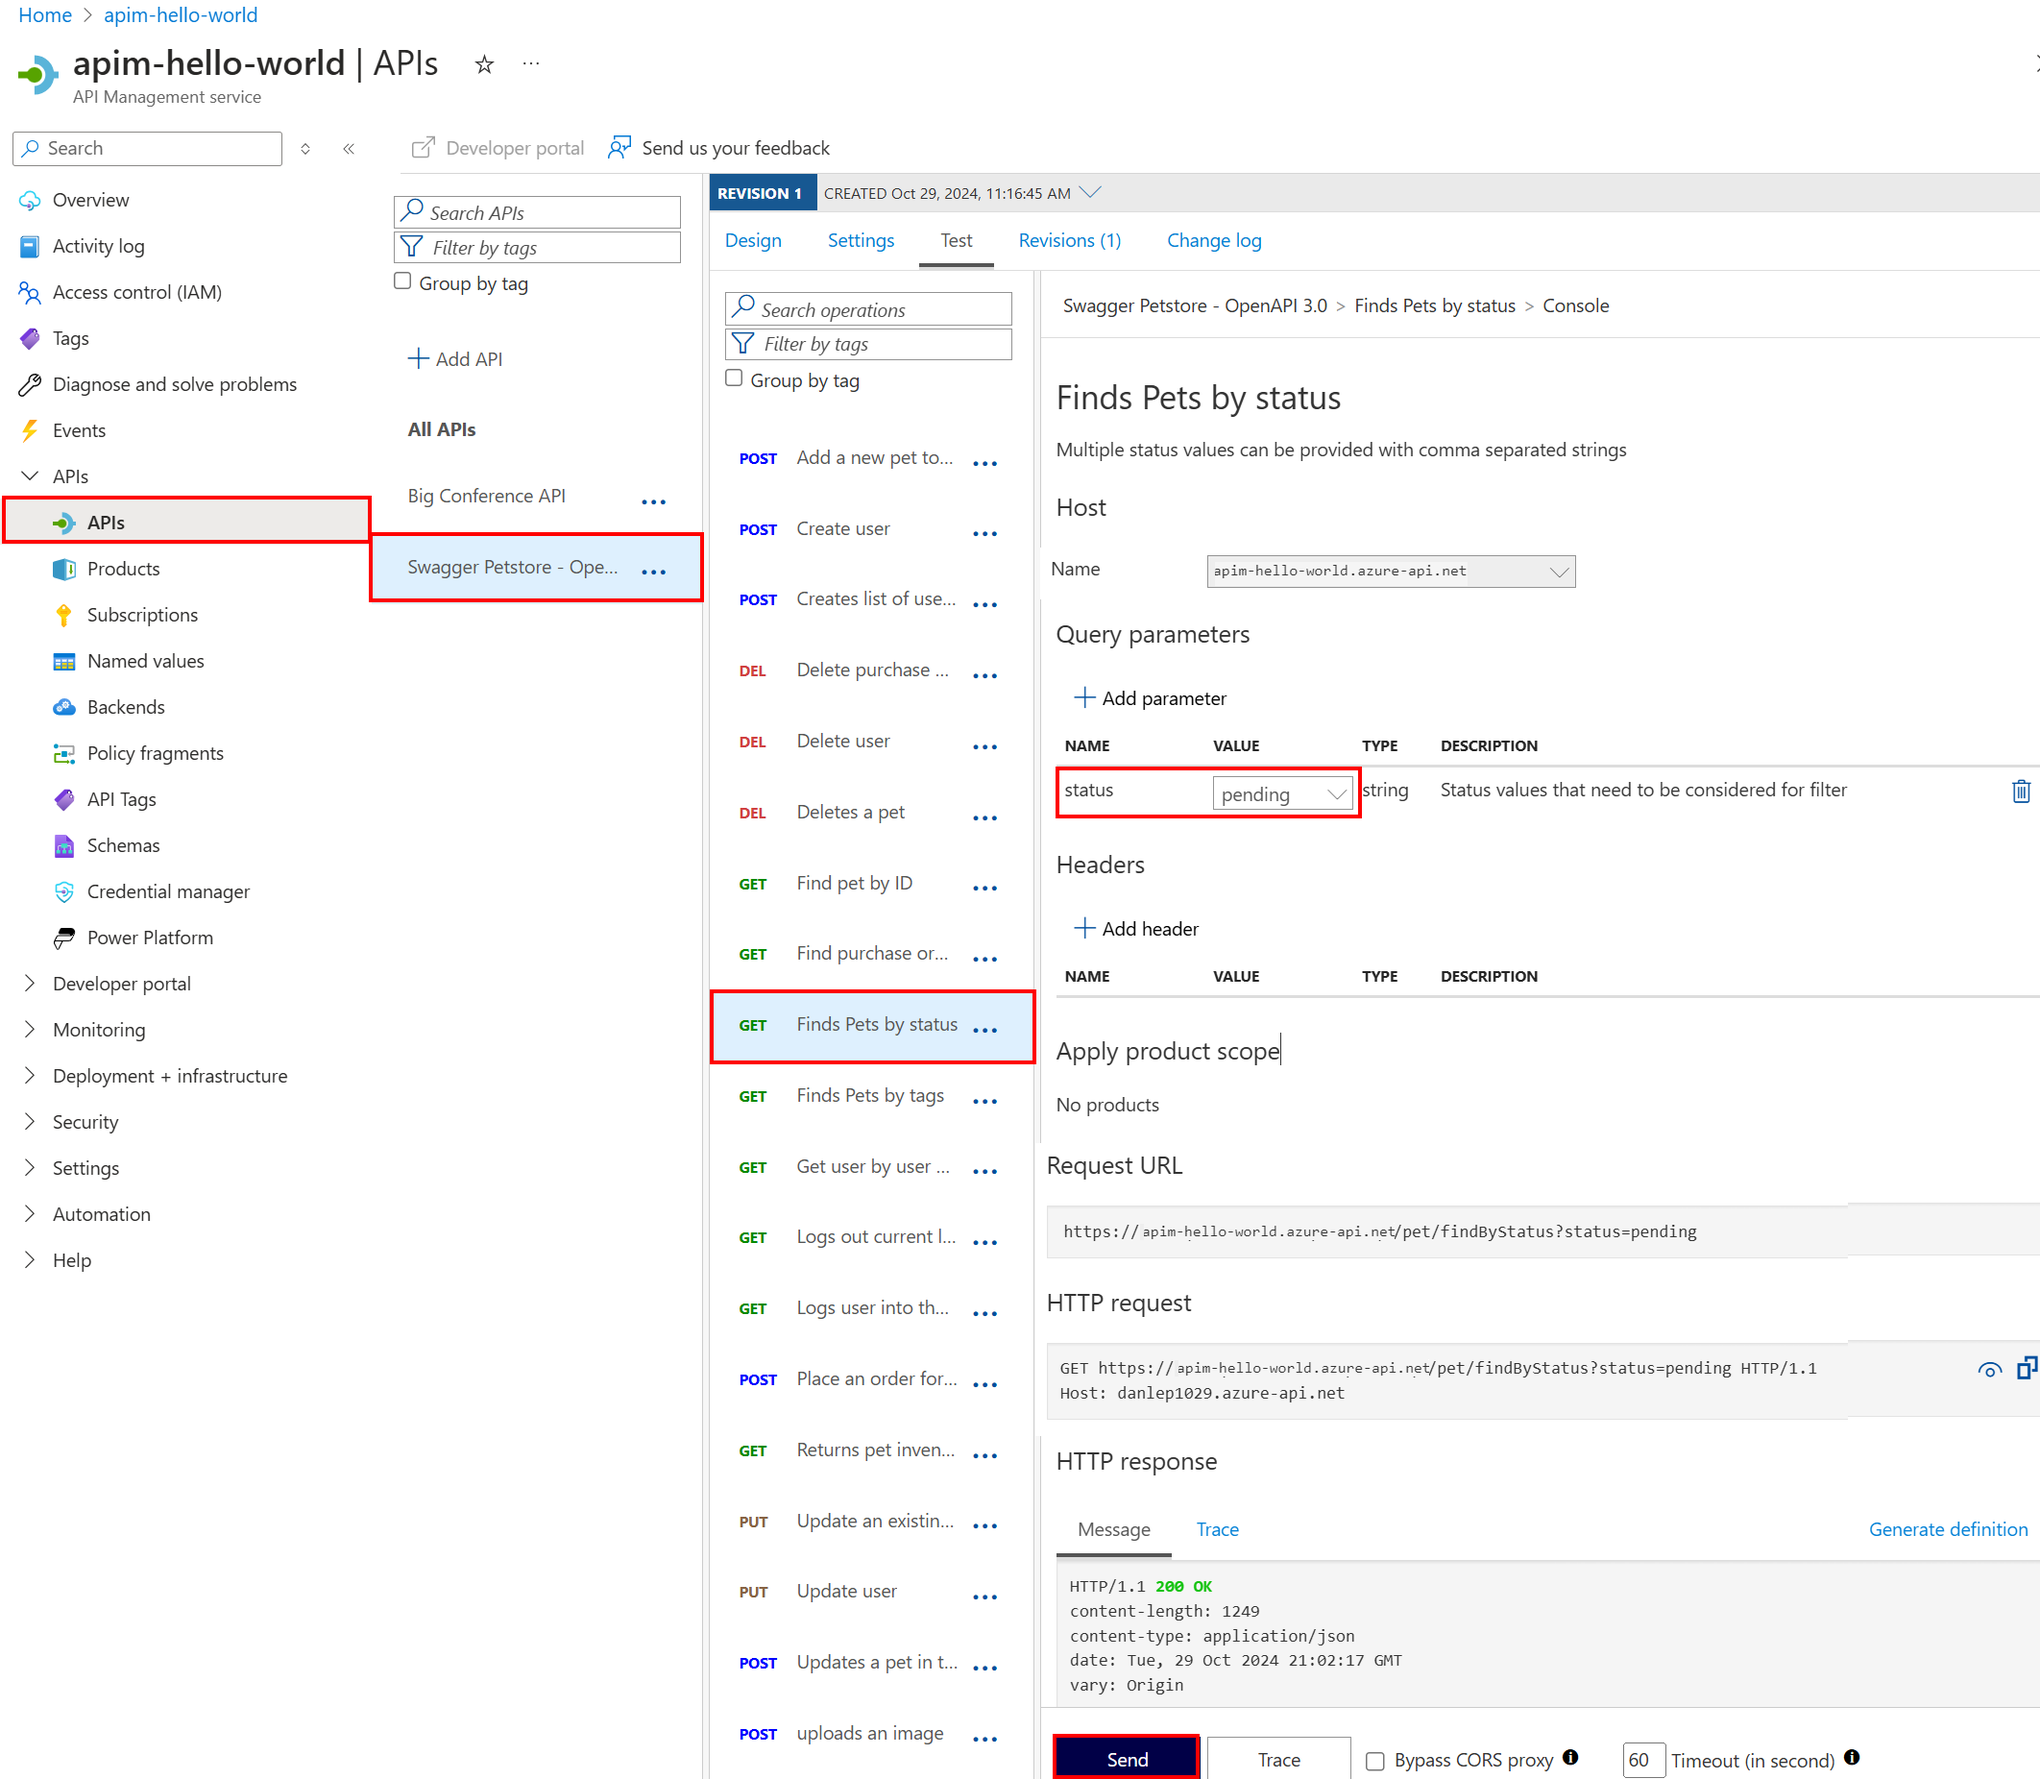
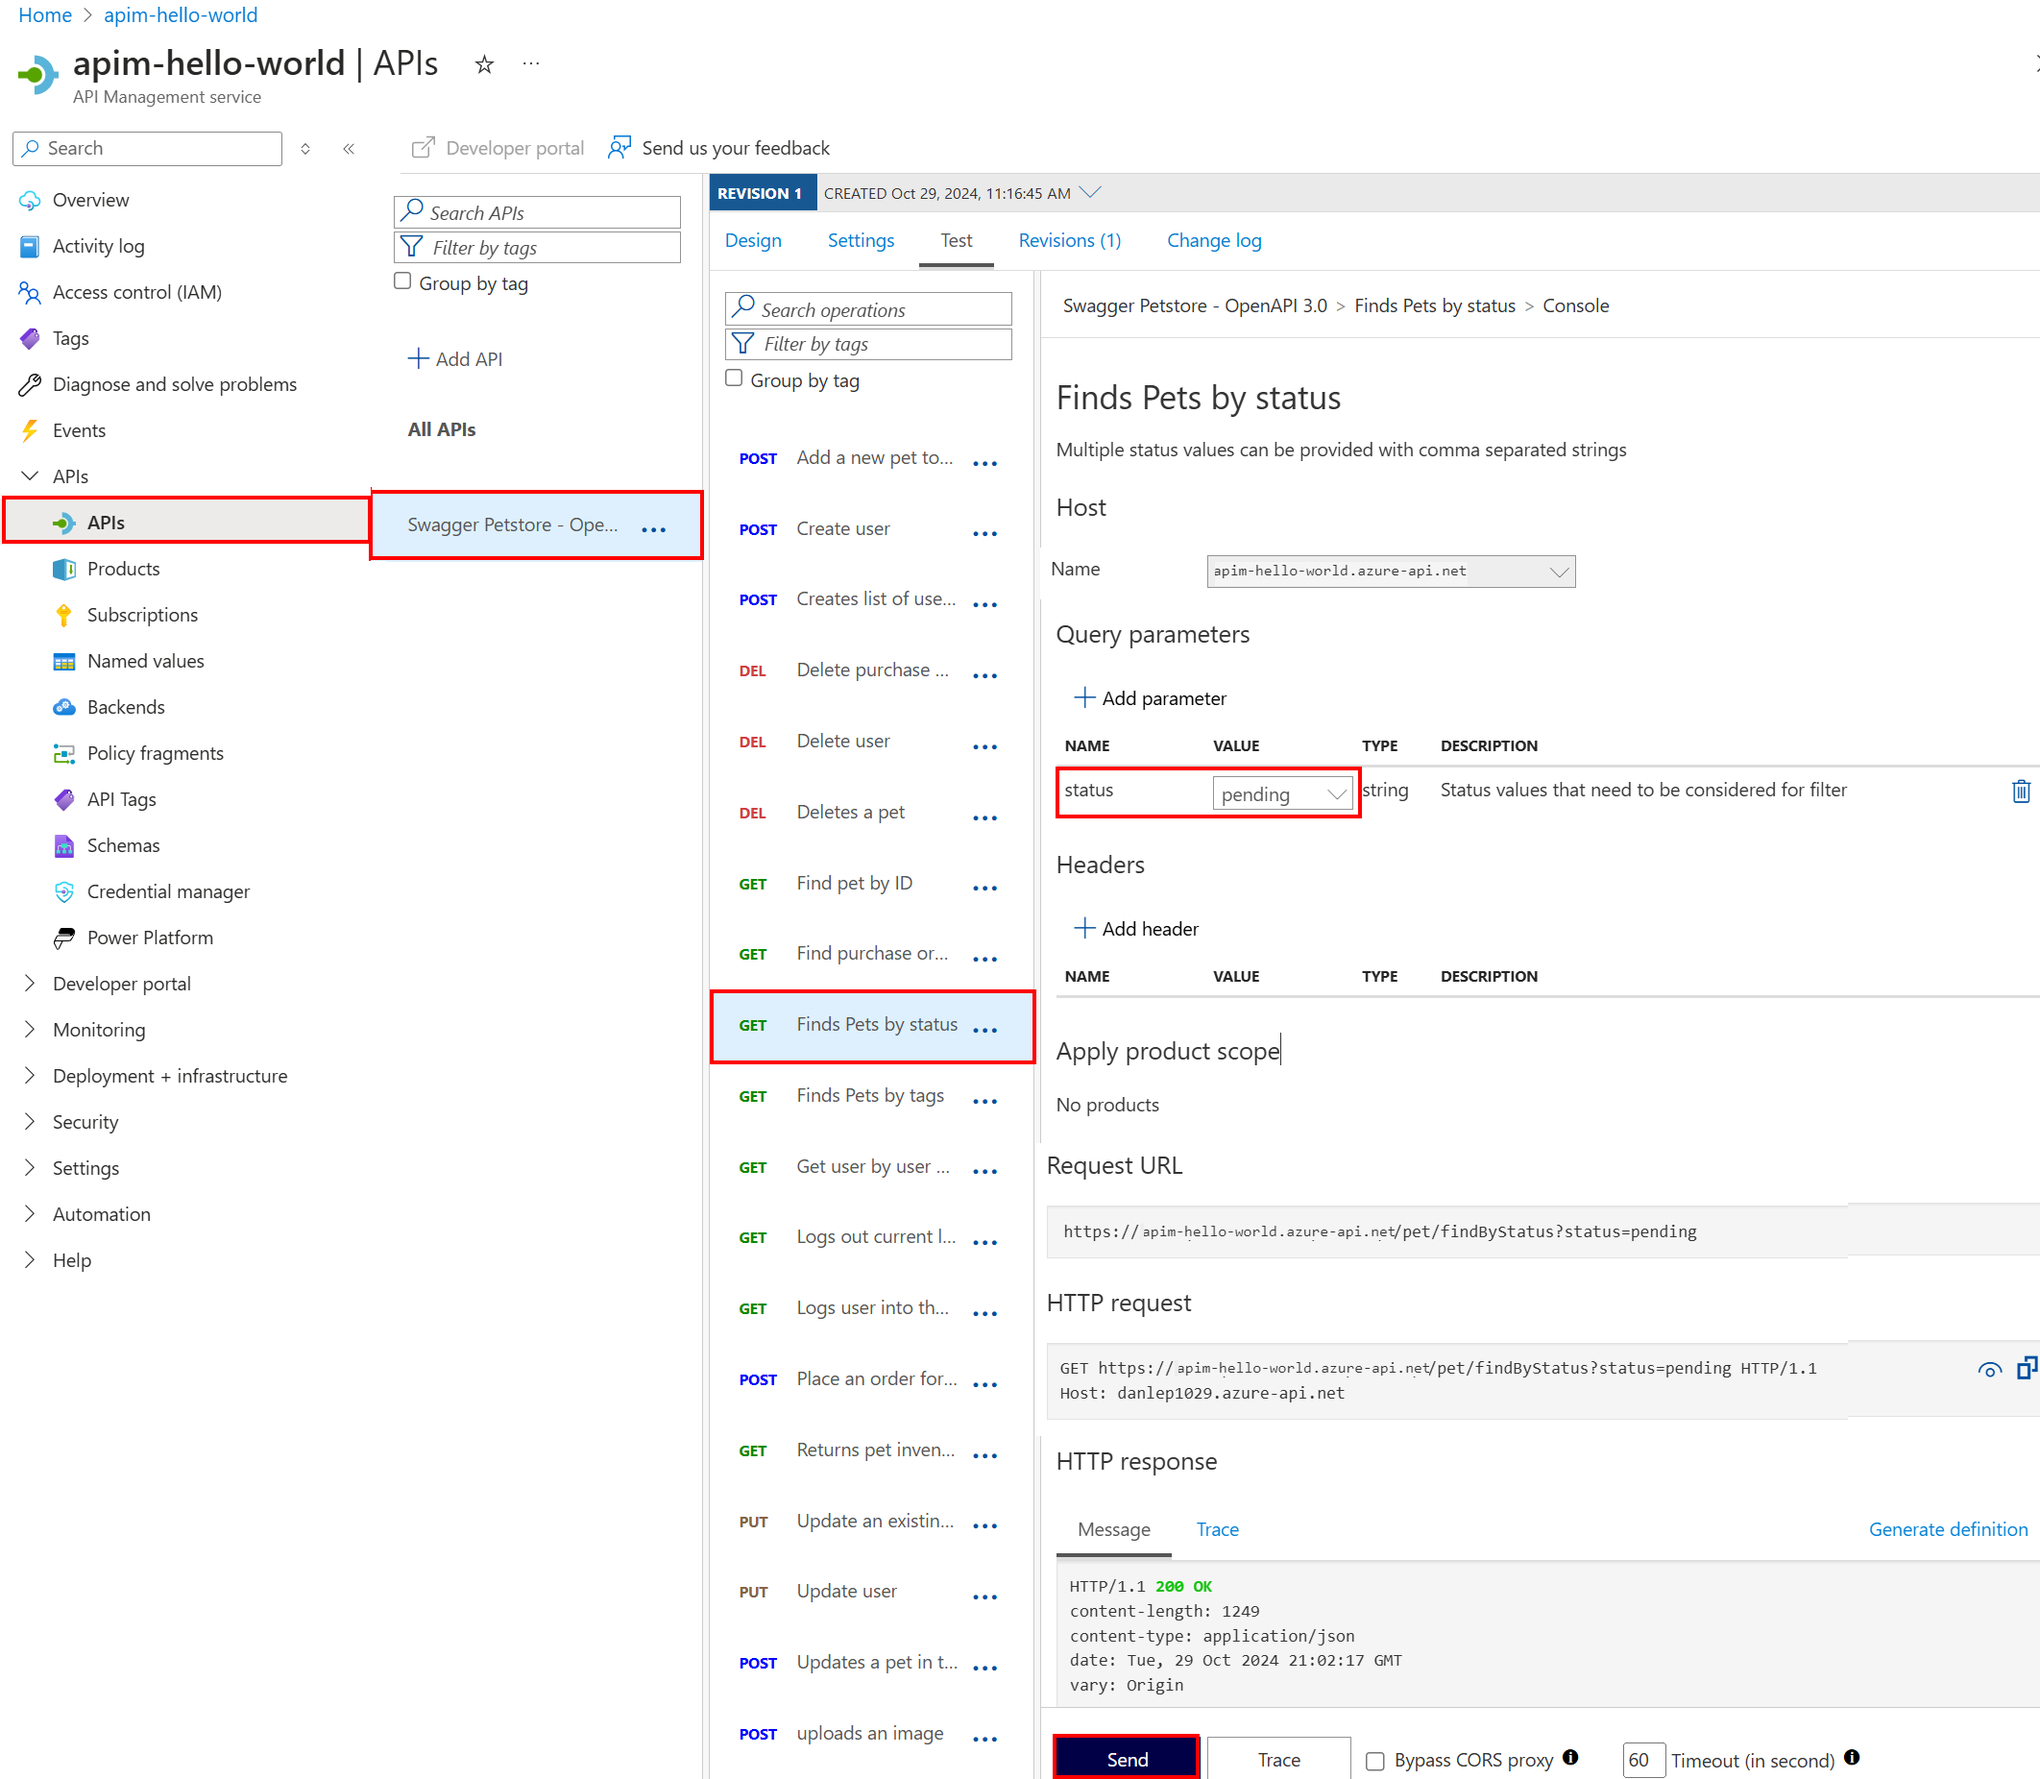
add screenshot

Changed region(s): [[0.1554, 0.277, 0.3418, 0.3386]]

diff --git a/articles/api-management/import-and-publish.md b/articles/api-management/import-and-publish.md
@@ -77,6 +77,8 @@ After importing your API, you can view and modify its settings and operations in
 
 1. In the left navigation of your API Management instance, under **APIs**, select **APIs**.
 1. Select your imported API (for example, **Swagger Petstore**).
+    :::image type="content" source="media/import-and-publish/view-api-settings.png" lightbox="media/import-and-publish/view-api-settings.png" alt-text="Screenshot of API settings in API Management in the portal.":::
+
 1. Select the **Design** tab to view and modify API operations in the OpenAPI specification, including:
     - Operation details such as URL, method, and description
     - Request and response definitions
